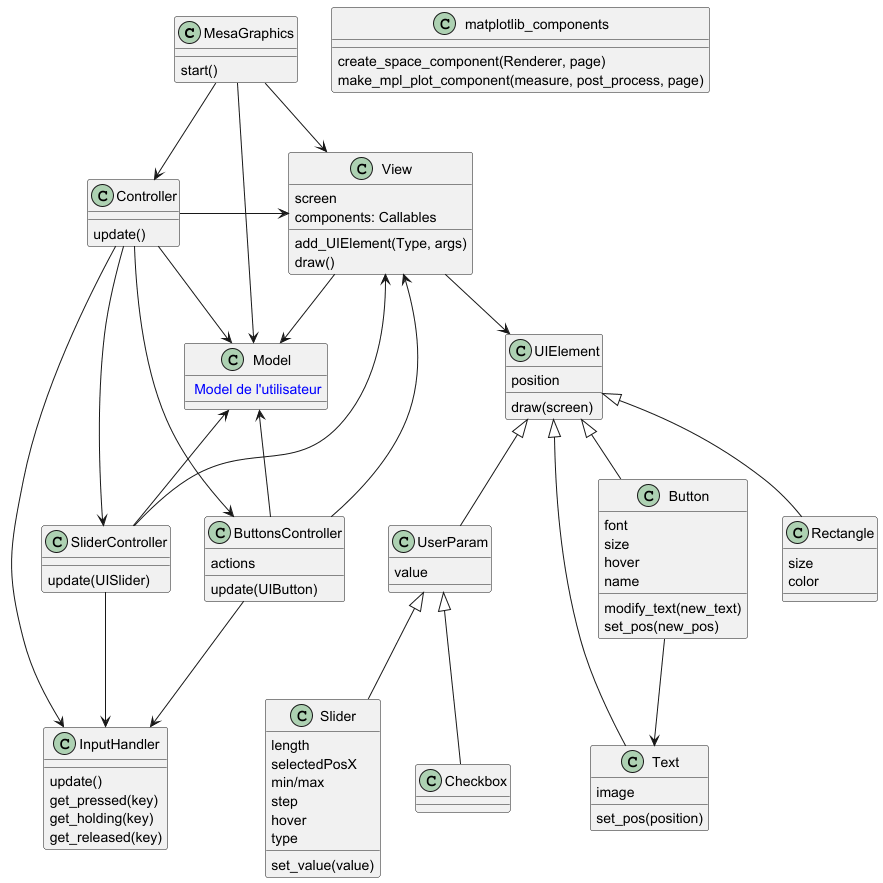
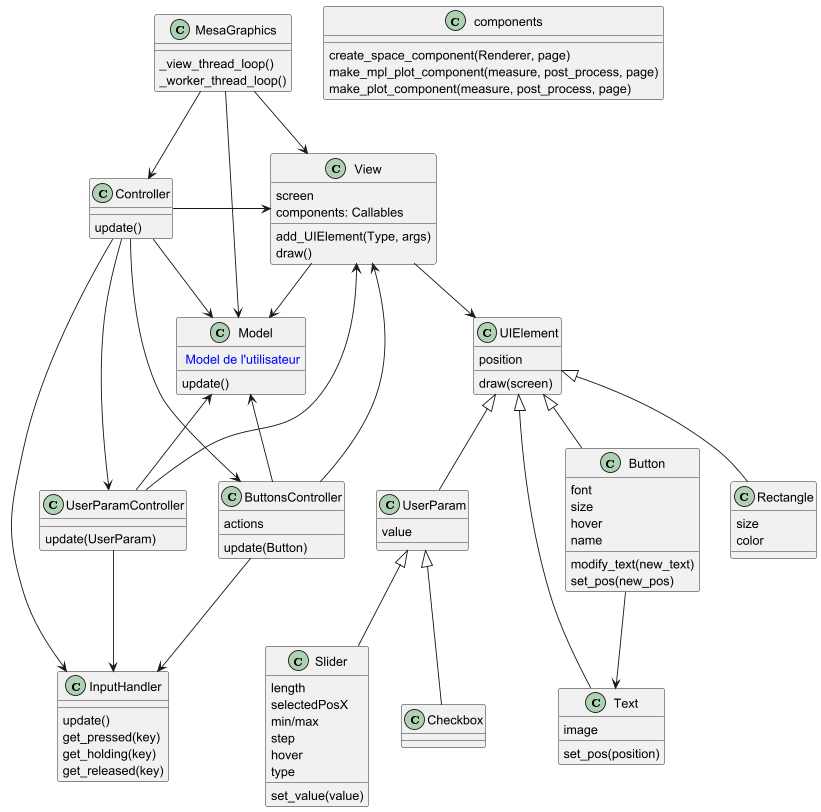
doc: amelioration of the developer documentation

diff --git a/mesa_graphics/MesaGraphics.py b/mesa_graphics/MesaGraphics.py
@@ -41,7 +41,7 @@ class MesaGraphics:
                          render_interval=render_interval, model_params=model_params, name=name)
         self.controller = Controller(self.model, self.view)
         self.barrier = threading.Barrier(2)
-        self.update_thread = threading.Thread(target=self._update_thread_loop)
+        self.update_thread = threading.Thread(target=self._worker_thread_loop)
         self.update_thread.start()
         self._view_thread_loop()
 
@@ -63,7 +63,7 @@ class MesaGraphics:
         self.view.quit()
         self.barrier.wait()
 
-    def _update_thread_loop(self):
+    def _worker_thread_loop(self):
         """ Worker loop executed in the secondary thread.
 
         It must execute all the computationally expensive operations. It has the role to:

diff --git a/doc/doc_dev.md b/doc/doc_dev.md
@@ -1,51 +1,51 @@
 # Developer documentation
 
-This documentation is made for developers who want to contribute the project.
-It explains what this project does, and how it does it.
+This documentation is intended for developers who want to contribute to the project.
+It explains what this project does and how it does it.
 
 ## Features
 
 MesaGraphics is a visualization add-on for Mesa: https://Mesa.readthedocs.io/stable. 
 
-The user define a Mesa Model, then, the MesaGraphics library show the Model, and the user defined plots. It allows the 
-user to interact with the Model, and to re-instantiate it through buttons, checkboxes, and sliders.
+The user defines a Mesa Model, then, the MesaGraphics library displays the Model, and the user-defined plots. It 
+allows the user to interact with the Model, and re-instantiate it through buttons, checkboxes, and sliders.
 
 ![screenshot](screenshot.png)
 
-It is inspired by Mesa's Solara-based visualization. The API closely mirrors Mesa's Solara-based visualization API, but runs 
+It is inspired by Mesa's Solara-based visualizations. The API closely mirrors Mesa's Solara-based visualization API, but runs 
 entirely locally through Pygame.
 
 ### Components
 
-Components are dynamic plots keeping track of Model's attributes, and being refreshed every time the user's Model is 
+Components are dynamic plots that track Model attributes, and being refreshed every time the user's Model is 
 modified.
-There are multiple ways to create components :
-- Though the Mesa's Renderer (the class name is SpaceRenderer) create the space plots. It shows a grid with the agents 
+There are multiple ways to create components:
+- Though Mesa's Renderer (the class name is SpaceRenderer) create the space plots. It shows a grid with the agents 
 in it.
-- Though the make_plot_component function. This function create a plot keeping track of the value of an attribute
+- Though make_plot_component function. The function creates a plot that track the value of an attribute
 (or the result of a function).
 - Custom components, for more complex plots.
 
 These functions are implemented in the components.py file.
 
-Each component is accompanied by the page in which it will be drawn (0 by default). The components are drawn in the 
-order chosen by the user when their page is the current selected page.
+Each component is associated with a page. This page is the one in which it will be drawn (0 by default). The 
+components are drawn in the order chosen by the user when their page is the currently selected page.
 
 The user can change the page with buttons.
 
 ### Model Parameters
 
-The user can define dynamically chosen model parameters (the elements in the left column in the image). 
+The user can define model parameters dynamically (the elements in the left column in the image). 
 
-When the user click on "RESET", the Model is re-instantiated. 
-The parameters chosen to re-instantiate the Model are the one chosen with sliders, or checkboxes.
+When the user clicks on "RESET", the Model is re-instantiated. 
+The parameters chosen to re-instantiate the Model are the one selected using sliders, or checkboxes.
 
 
 ## Dev environment setup
 
-Start by being sure that you are allowed to contribute. 
-If you can't, have the rights, due to any reasons, I give you all rights to copy the code, and paste it in a new 
-repository, and add things in it. 
+First, make sure that you are allowed to contribute. 
+If you are unable to contribute to this repository for any reason, you are free to copy the code into a new repository 
+and build upon it.
 
 ### Installation
 
@@ -56,23 +56,35 @@ all the folders.
 git clone "https://github.com/Erocr/mesa_graphics.git"
 ```
 
-Install the following requirements : numpy, matplotlib, mesa, networkx, altair, solara, pygame :
+
+Install the following requirements: numpy, matplotlib, mesa, networkx, altair, solara, pygame
+We tested it with the following versions:
+- Pygame 2.6.1+
+- Mesa 3.5.1
+
 ```bash
 pip install networkx altair matplotlib solara pygame mesa
 ```
+altair and matplotlib are facultatif, it depends on the backend you use.
+You must install solara too because it is automatically imported when you import mesa.visualization.
 
-You can verify that all is right installed by executing a test. Try testing with a normal test, and not with a test 
-from tests/examples. tests/examples is a folder with migrations from a repository full of examples of mesa, but some of
-this examples are not possible to migrate in MesaGraphics.
 
+You can verify that everything is installed correctly.
+```bash
+python tests/minimal.py
+```
+Or a more complete test:
+```bash
+python tests/with_model_params.py
+```
 
 ### Repository structure
 
-The repository has multiplie folders.  
+The repository contains multiplie folders.  
 - All code is in the **mesa_graphics** folder.  
 - The tests are python files that call our library. They are all in the **tests** folder.  
-- In **doc** folder, you have all the documentation files, used for new contributors, and to describe what and how I did 
-the library. Some files are only here for my internship.
+- In the **doc** folder, you have all the documentation files, used for new contributors, and to describe the design 
+and implementation of the library. Some files were created for my internship.
 
 Finally, there are some files in none of these folders. These files are here for users.
 
@@ -84,14 +96,14 @@ will create the window, start the visualization, and start to take account of th
 
 ### High Level Architecture
 
-MesaGraphics follow the conception pattern MVC (Model View Controller). So, it has the three main classes :
-- Model : Contains the user's Model, and some attributes.
-- View : Creates the window, place all the UI elements onto the screen, and handle the logic to show them.
-- Controller : Take into account the user's inputs.
+MesaGraphics follow the **Model-View-Controller** (MVC) pattern. So, it has the three main classes:
+- **Model**: Contains the user's Model, and some attributes.
+- **View**: Creates the window, place all the UI elements onto the screen, and handle the logic to show them.
+- **Controller**: Handles the user's inputs.
 
 ### High Level flow
 
-You can see below a graphic representation of the high level flow.
+You can see below a graphical representation of the high level flow.
 
 ![flow](block_diagram.png)
 
@@ -100,18 +112,18 @@ For better performances, we implemented multithreading.
 The main thread is really lightweight. It handles the user's inputs, and draw onto the screen. This thread shall be 
 really fast to have a responsive interface. It runs currently approximately at 1000 fps.
 
-The worker thread is the one that do all the expensive computations. So, it generates the plots, and simulate the Model.
-This two operations can be arbitrary hard because the user can give custom plots and custom Model.
+The worker thread performs all the computationally expensive operations. So, it generates the plots, and simulate the 
+Model. These two operations can be arbitrarily expensive because the user can give custom plots and custom Model.
 
-The multithreading can make a lot of subtle bugs really hard to debug. So, when you add code, make attention to some 
-points:
+The multithreading can make a lot of subtle bugs really hard to debug. So, when you add code, pay attention to the 
+following points:
 - `View.draw` must not draw things depending on the user's Model state. It could draw the Model only half simulated, 
-drawing a state of the Model that never exist. If you want to draw things depending on the Model state, please start by 
+drawing a model state that never existed. If you want to draw things depending on the Model state, please start by 
 rendering them in the `View.render` function, and then draw the rendered image. This solves the problem because the 
 rendering function and the Model simulation function are in the same thread.
-- In general, try using attributes in only one thread. Make attention when some attributes are modified and used in 
+- In general, try using attributes in only one thread. Be careful when attributes are modified and used in 
 different threads.
-- Python use GIL : The Python Global Interpreter Lock or GIL, in simple words, is a mutex (or a lock) that allows only 
+- Python use GIL: The Python Global Interpreter Lock or GIL, in simple words, is a mutex (or a lock) that allows only 
 one thread to hold the control of the Python interpreter. So modifying an attribute in two different threads can be 
 acceptable.
 
@@ -122,11 +134,22 @@ Below, the complete architecture
 
 ![architecture](MesaGraphics.png)
 
+### Files
+
+A quick explanation of what you can find in each file:
+- **MesaGraphics.py**: The starting point of the application
+- **Model.py**: There is the Model class. It is a class containing the user's defined Model class, and some other 
+attributes.  
+- **Controller.py**: There is the Controller layer, that's to say the Controller, the ButtonsController, and the 
+  UserParamController.
+- **View.py**: There is the View component. Where all the graphical elements are instantiated, and drawn.
+- **UIElement.py**: There is all the different graphical elements. (Button, Rectangle, Slider, Checkbox, ...).
+
 ### Controller
 
-All the events are handled by InputHandler. This class allow you to directly know if some key is pressed, held, or 
+All the events are handled by InputHandler. This class allows you to directly know if some key is pressed, held, or 
 released.  
-The Controller is cutted in ButtonsController and UserParamController. The ButtonsController part is responsible for 
+The Controller is divided into ButtonsController and UserParamController. The ButtonsController part is responsible for 
 the Button actions, while the UserParamController is responsible for modifying the userParam values according to the 
 user's inputs.
 
@@ -138,20 +161,31 @@ In the UIElement class, there is only the logic to draw them. The logic to inter
 You can create UIElement through the `View.add_UIElement` function.
 The order in which you create UIElements is meaningful. They are drawn in the same order.
 
+If you want to create new graphical elements, you can create classes that inherit from UIElement (implementing draw).
+
 ### Interacting with buttons
 
-Each Button has a name. This name can be the one chosen, or by default, if none is chosen, the text in it. Each name 
-is unique (if it is not, the name is changed so that it is). The ButtonsController part has a dictionary called 
-`button_actions` that associate to each button's name the function that will be called once the button is pressed.
+Each Button has a name. This name can be the one chosen, or by default, if none is chosen, the text in it. Each name is 
+guaranteed to be unique. If a duplicate name is provided, it is automatically modified. The ButtonsController part has 
+a dictionary called `button_actions` associates each button name with the function that will be called once the 
+button is pressed.
 
-The ButtonsController will at each update see if the user is pressing on a button, and if so, he will execute the 
+The ButtonsController will at each update see if the user clicks a button, and if so, he will execute the 
 associated function.
+
+If you want to add a button:
+1. Create the button in View using the function `View.add_UIElement(Button, ...)`. For example, 
+`View.add_UIElement(Button, pg.Vector2(0, 0), "hello world", self.fonts["basic15"], name="printHelloWorld")`
+2. Be careful to give a new name. For clarity, I advise to give an explicit name, even if the name parameter is 
+facultatif
+3. In ButtonsController, associate to the name of the button the action it does when pressed. For example: 
+`self.button_actions["printHelloWorld"] = lambda: print("HelloWorld")`
 
 ### Interacting with UserParam
 
 Interacting with UserParam is pretty similar to interacting with buttons. Each UserParam has a name just as the buttons.
-When the user change a UserParam value, the UserParamController call a method of the UserParam to describe the change.
-Finally, when the user re-instantiate the Model, the UserParamController iterate through all the UserParam to catch 
-their values, and use them as the next Model parameters.
+When the user change a UserParam value, the UserParamController calls a method of the UserParam to describe the change.
+Finally, when the user re-instantiate the Model, the UserParamController iterates through all the UserParam to retrieve 
+their values, and use them to instantiate the next model.
 
 